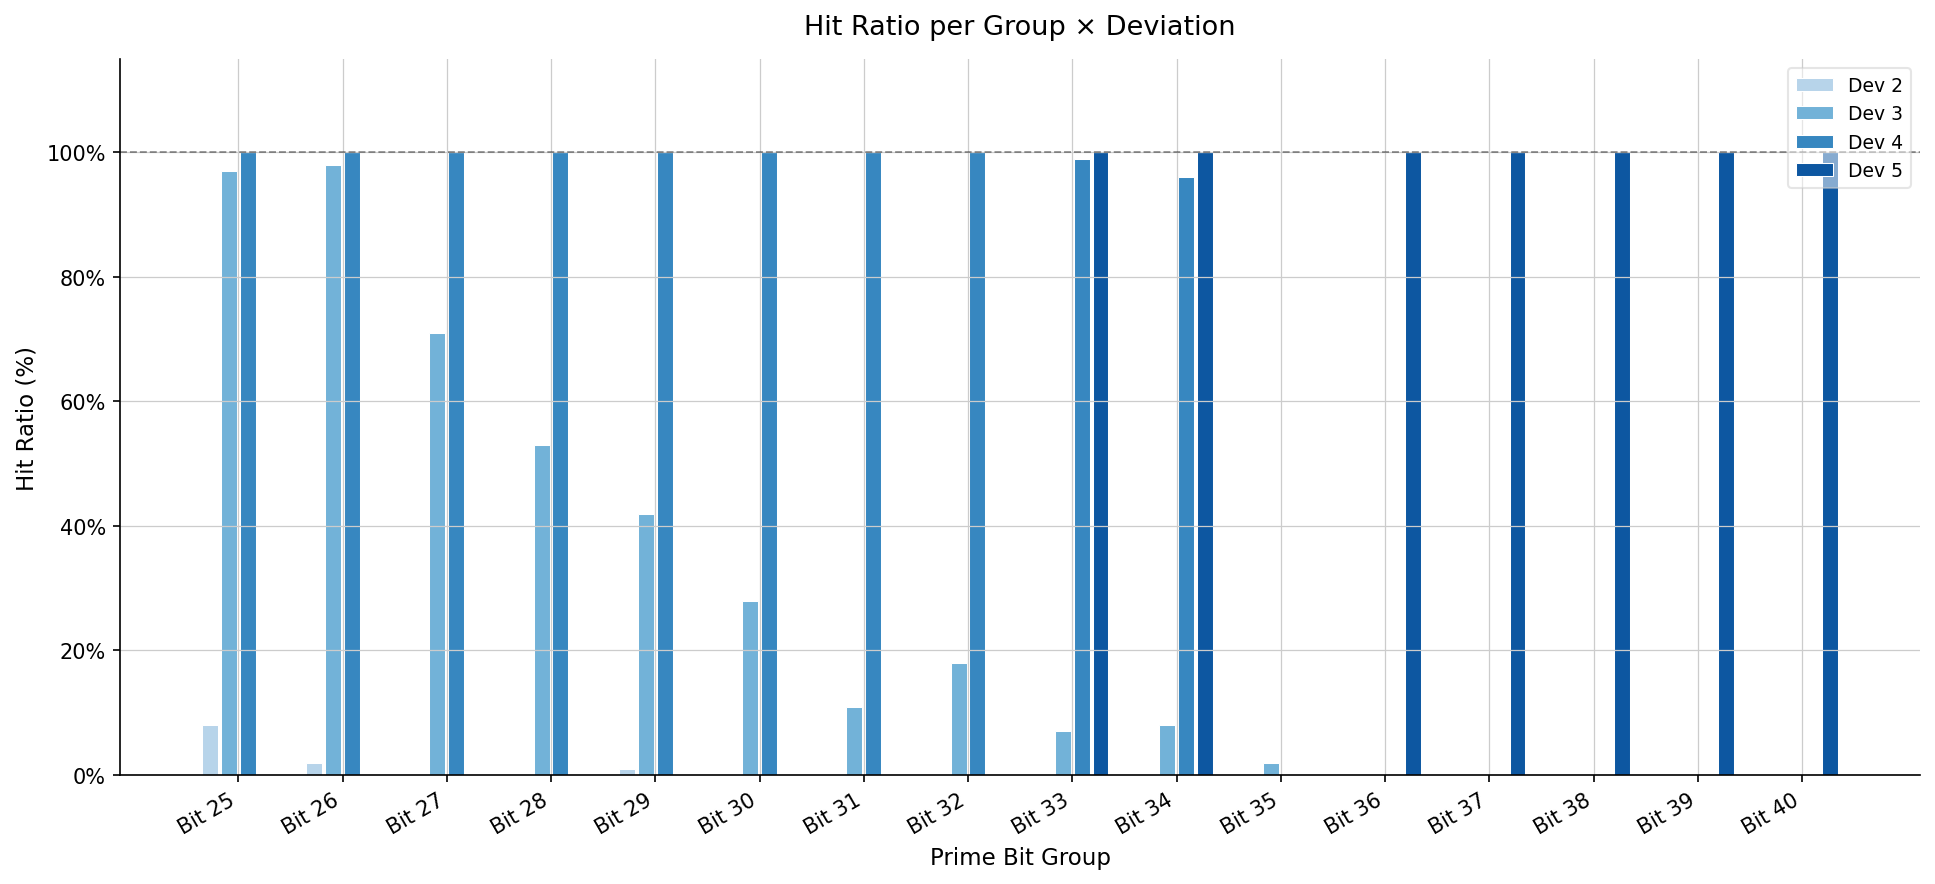
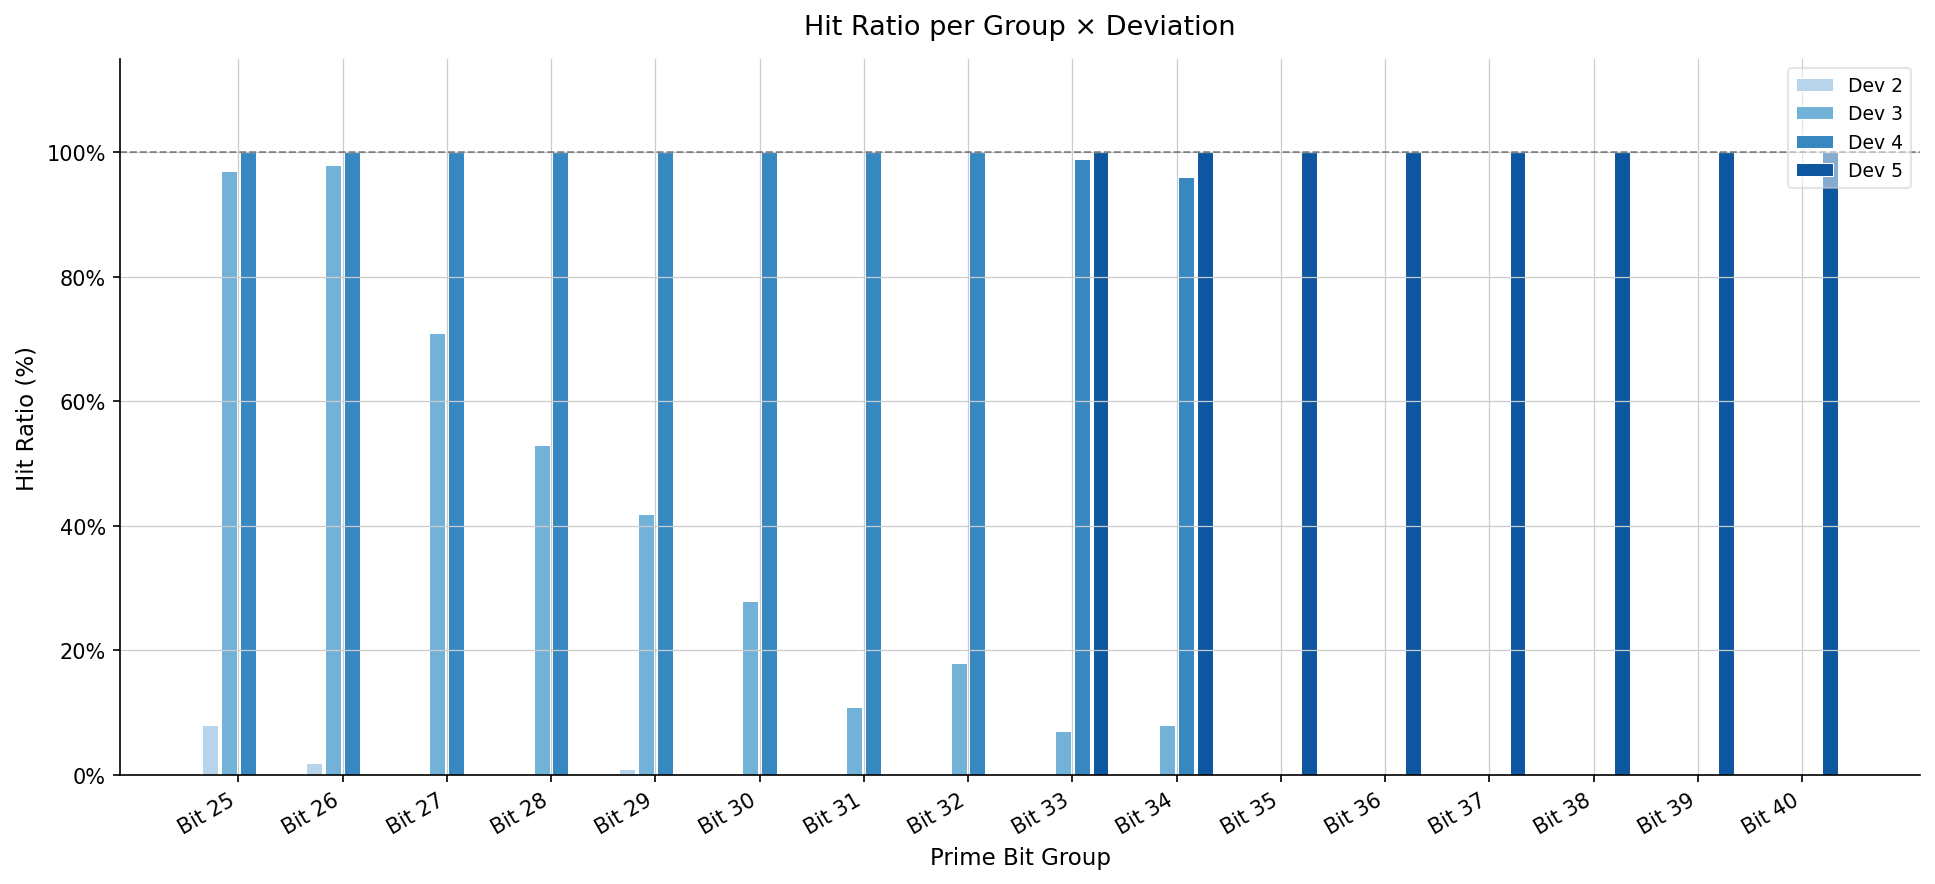
modifiled graphs

Changed region(s): [[0.6512, 0.1833, 0.6822, 0.8857]]

diff --git a/Analysis_Scripts/analyze_results.py b/Analysis_Scripts/analyze_results.py
@@ -99,7 +99,7 @@ SOURCES = {
     # 33 from Results_hits_one_check_till_100 is EXCLUDED
     33: "Parambrahma_data_20April/Results_brahma_2/33",
     34: "Parambrahma_data_20April/Results_brahma_2/34",
-    35: "Parambrahma_data_20April/Results_brahma_2/35",   # NOT 35.old
+    35: "35",                                               # new full data (deviation_5, 100% hit)
     36: "Parambrahma_data_20April/Results_brahma/36",
     37: "Parambrahma_data_20April/Results_brahma/37",
     38: "Parambrahma_data_20April/Results_brahma/38",     # NOT 38.old
